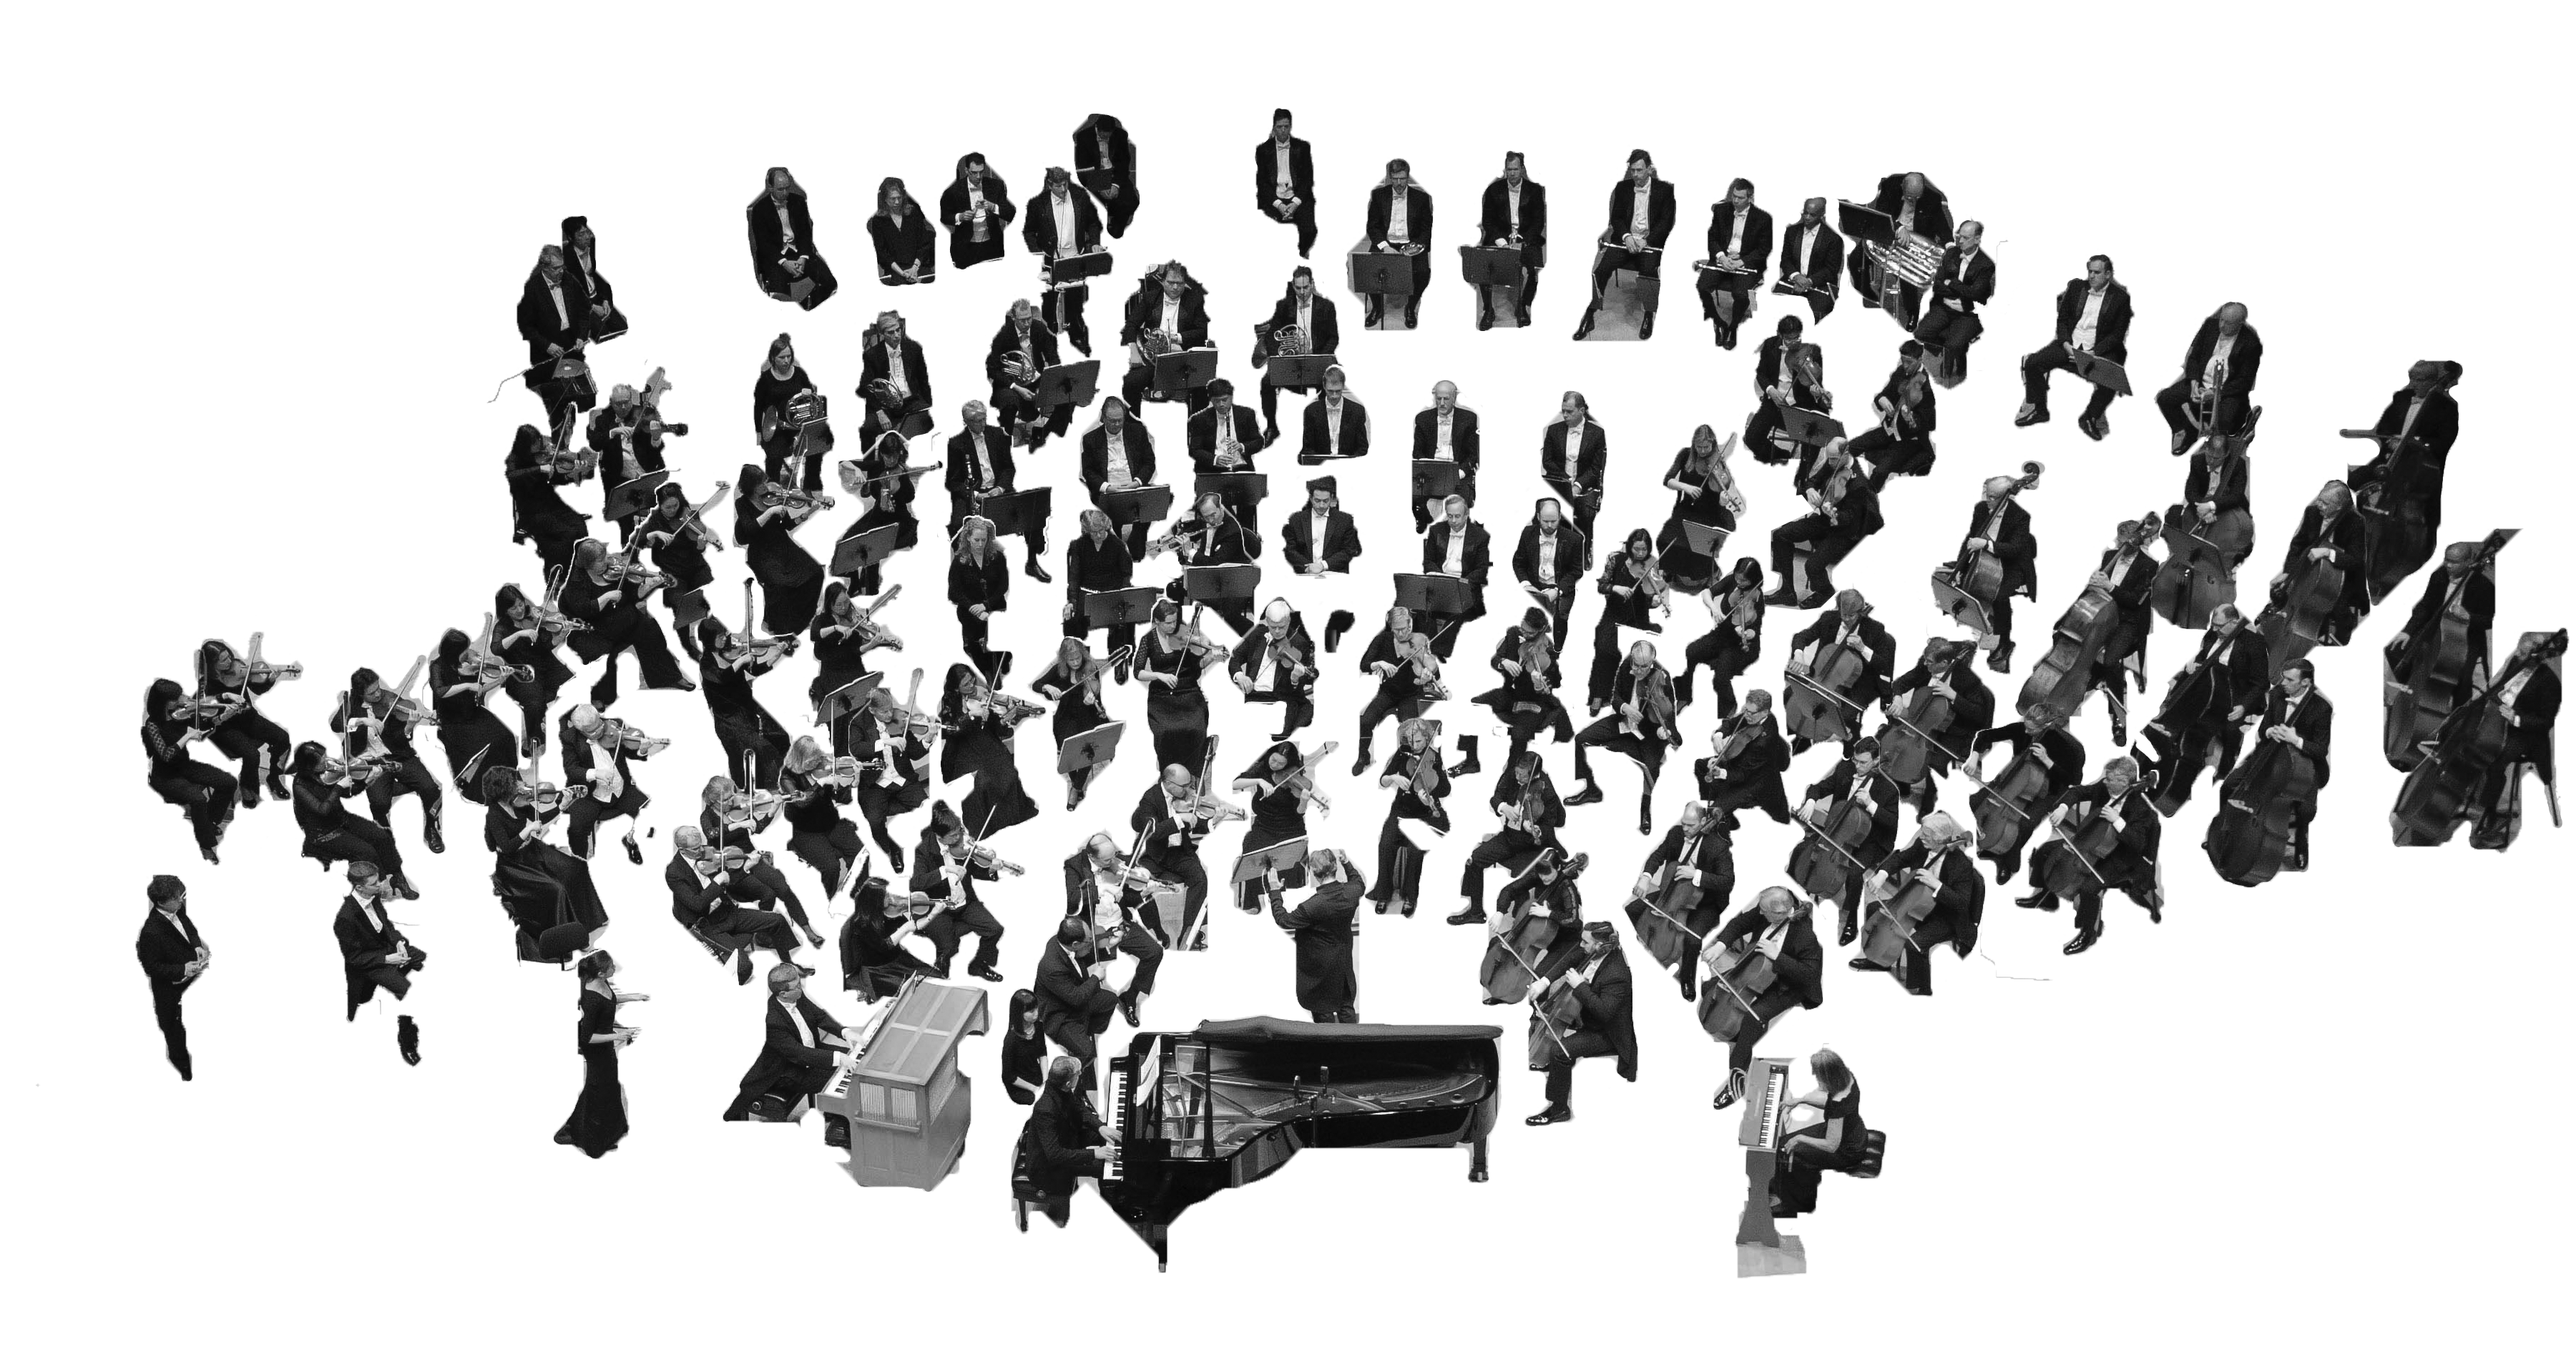
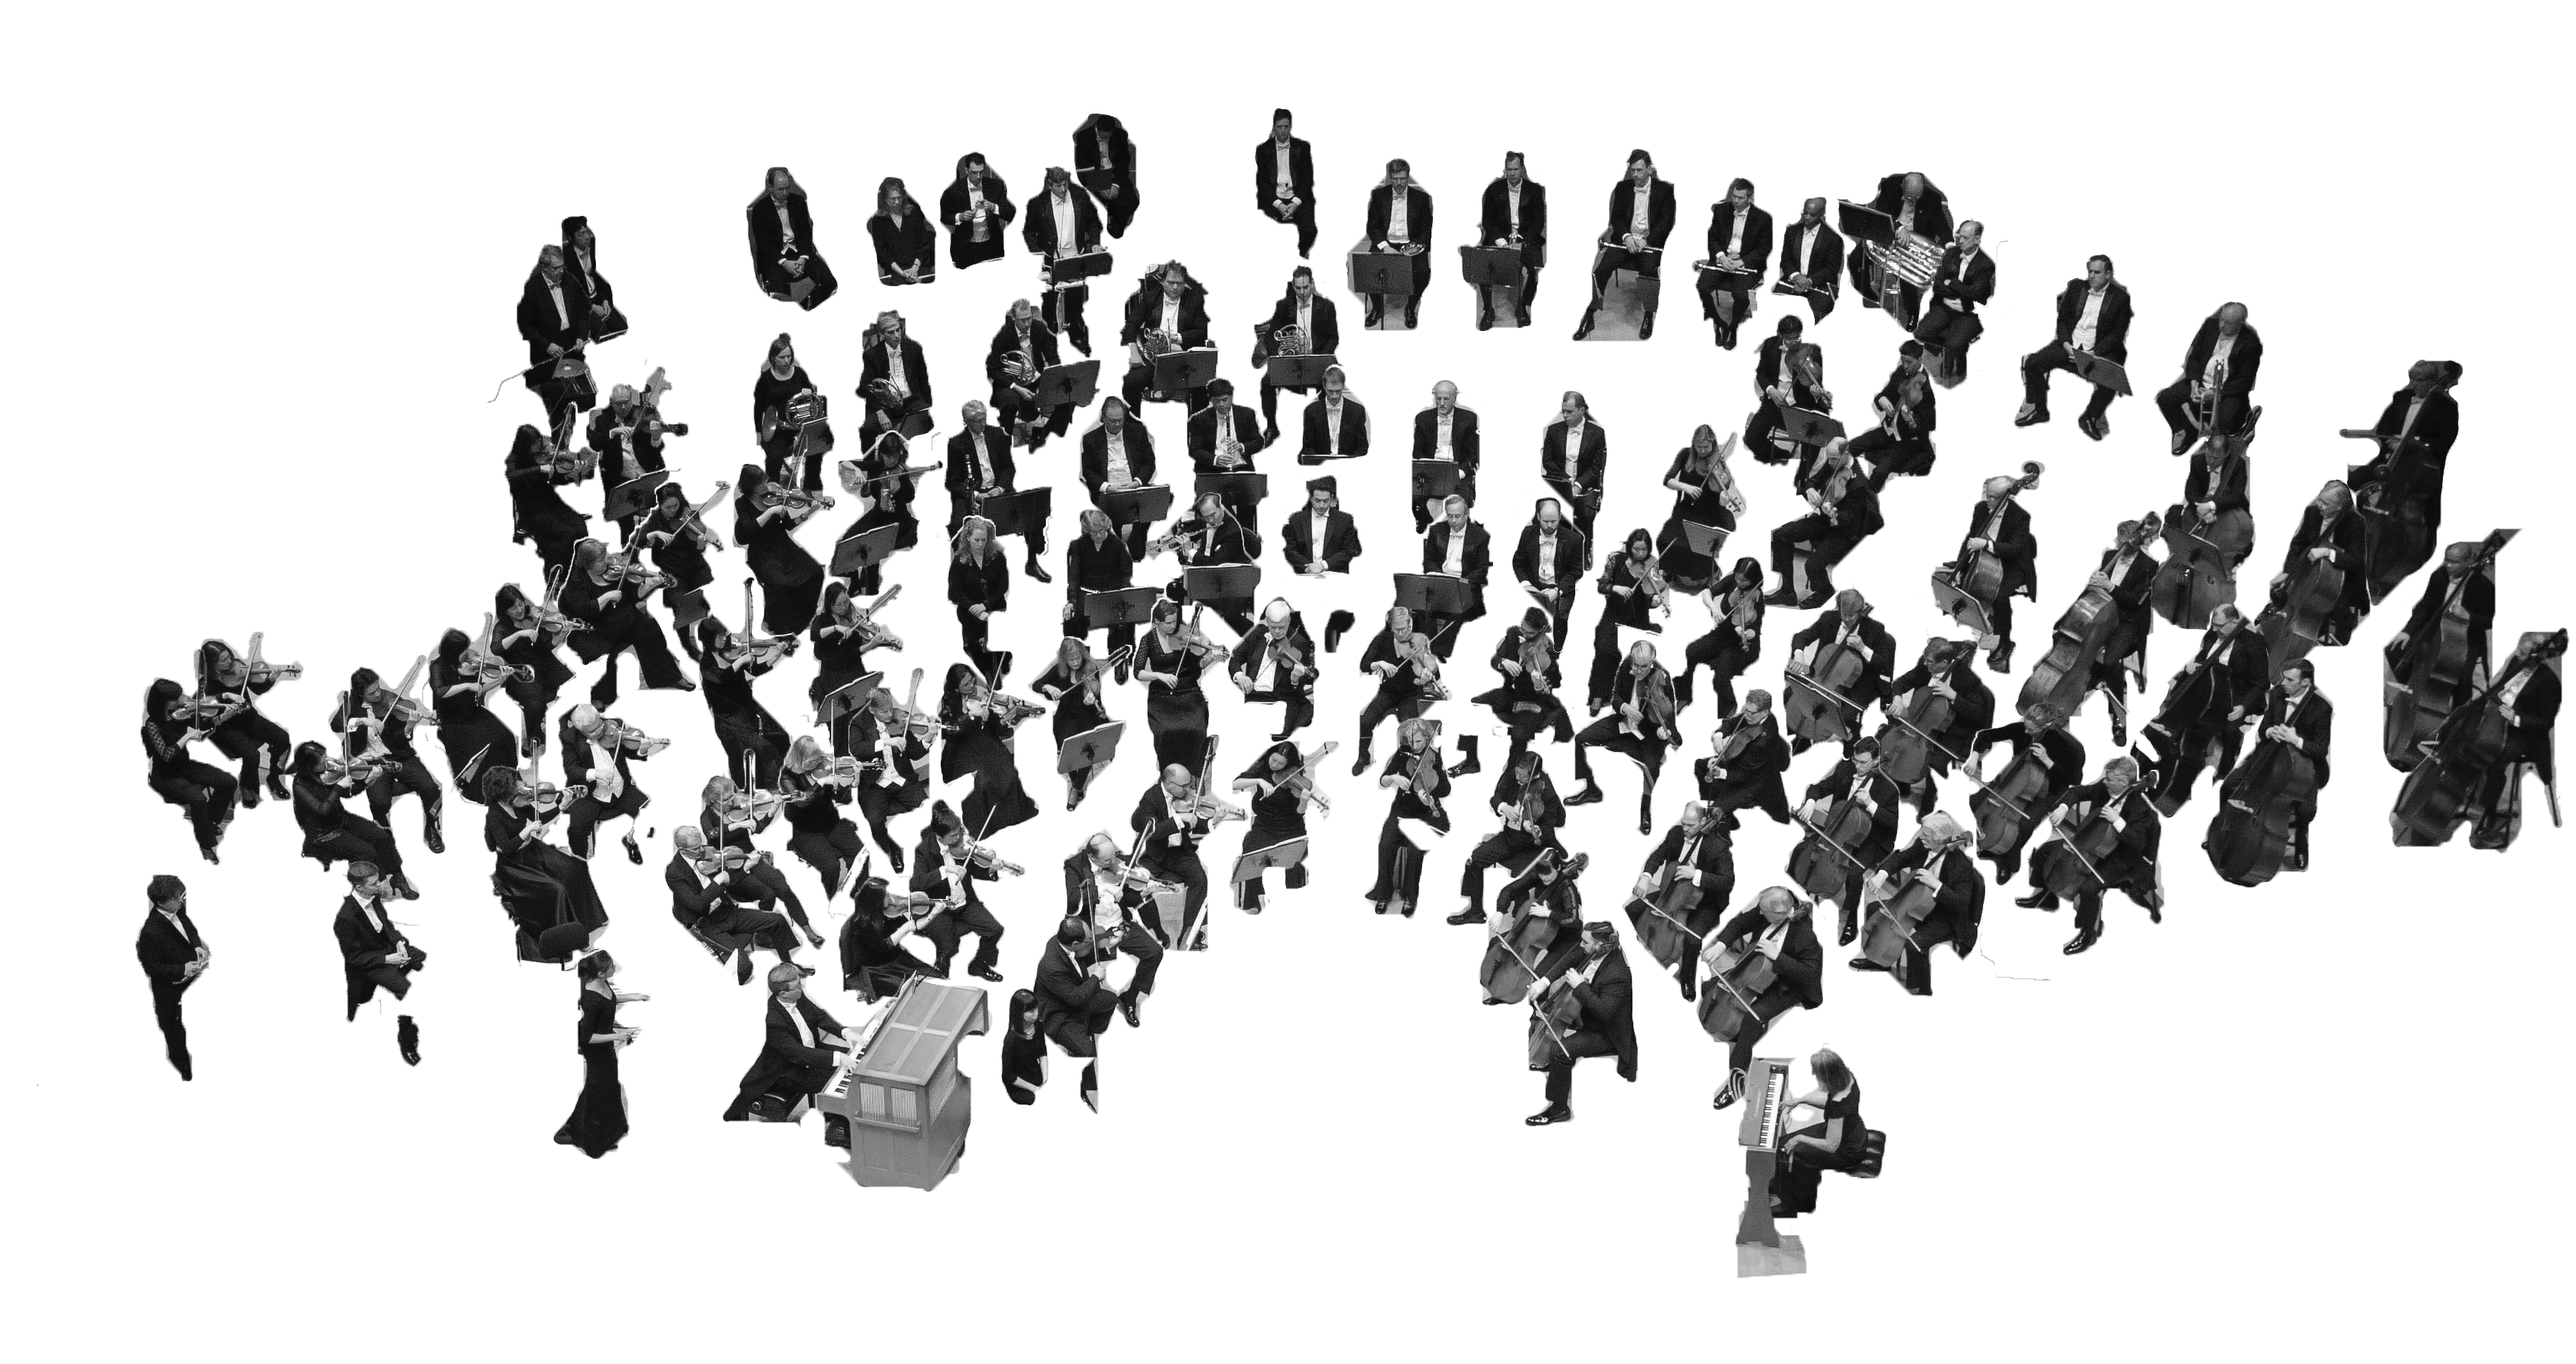
Using a different approach ditching maphilight

Changed region(s): [[0.3732, 0.6184, 0.5909, 0.9277]]

diff --git a/webapp/templates/performers.html b/webapp/templates/performers.html
@@ -1,6 +1,6 @@
 <!doctype html>
 <!--Code Belongs to CodyHouse -->
-<html lang="en" class="no-js">
+<html lang="en">
     <head>
         <meta charset="UTF-8">
         <meta name="viewport" content="width=device-width, initial-scale=1">
@@ -10,13 +10,11 @@
         <link rel="stylesheet" href="{{ url_for('static', filename='performers_style.css') }}" /> <!-- Resource style -->
         <link rel="shortcut icon" href="https://res.cloudinary.com/nyphil/image/upload/v1463431638/images/shared/icons-logos/favicon.ico"/>
         <script>var api_port = {{ api_port }};</script>  
-        <script type="text/javascript" src="https://code.jquery.com/jquery-3.3.1.min.js"></script>
+        <script src="{{ url_for('static', filename='jquery-2.1.1.js') }}" type="text/javascript" defer></script> 
+        <script src="{{ url_for('static', filename='performers_main.js') }}" defer></script> <!-- Resource jQuery -->
         <script src="{{ url_for('static', filename='modernizr.js') }}" defer></script> <!-- Modernizr -->
-        <script src="{{ url_for('static', filename='./maphilight/jquery.maphilight.js') }}" type="text/javascript" defer></script> 
-        <script type="text/javascript">$(function() {
-        $('.map').maphilight();
-        });</script>
-
+        <script src="{{ url_for('static', filename='exit_button.js') }}" defer></script>  
+       
         <title>NY Phil: Perfinder </title>
     </head>
 
@@ -25,25 +23,28 @@
     <div class="cd-background-wrapper">
         <figure class="cd-floating-background">
             <img src="{{ url_for('static', filename='images/concert_hall.png') }}" alt="concert_hall">
-            <img src="{{ url_for('static', filename='images/performers.png') }}" alt="performers" class="map" usemap="#Map"> 
+            <img src="{{ url_for('static', filename='images/performers.png') }}" alt="performers"> 
             <img src="{{ url_for('static', filename='images/composers.png') }}" alt="composers">
+            <a href="https://google.com">
+                <img src="{{ url_for('static', filename='images/soloist.png') }}" alt="soloist">
+            </a>
+            <a href="https://www.youtube.com/">
+                <img src="{{ url_for('static', filename='images/conductor.png') }}" alt="conductor">
+            </a>
        </figure>
-
-       <map name="Map">
-       <area alt="soloist" shape="poly" href="https://www.google.com/" coords="1461,1497,1489,1488,1502,1507,1499,1539,1512,1571,1537,1580,1534,1510,1544,1491,1582,1488,1572,1466,1626,1453,1664,1434,1823,1434,1951,1434,2053,1437,2094,1440,2081,1513,2081,1548,2071,1641,2062,1539,2074,1596,2045,1609,1979,1609,1902,1609,1835,1609,1794,1612,1746,1647,1778,1641,1727,1657,1673,1676,1641,1708,1632,1755,1626,1781,1543,1679,1486,1679,1482,1701,1444,1679,1441,1714,1422,1654,1422,1596">
-       </map>
 
        <div class = "text-block">
            <h1> NY Phil: Perfinder </h1>
         </div>
     </div>
+    
+    <div class="exit_button" id="exit_buttonJS">
+        <a href="https://www.youtube.com/">
+            <img src ="{{ url_for('static', filename='images/exit.png') }}" alt ="exit" class = "exit_sign">
+        </a>
+    </div>
 
     
-    <img src ="{{ url_for('static', filename='images/exit.png') }}" alt ="exit" class = "exit_sign">
-
-    <script src="{{ url_for('static', filename='jquery-2.1.1.js') }}" defer></script> 
-    <script src="{{ url_for('static', filename='performers_main.js') }}" defer></script> <!-- Resource jQuery -->
-
     </body>
 
 </html>

diff --git a/webapp/static/performers_style.css b/webapp/static/performers_style.css
@@ -73,21 +73,38 @@ Main Components
   transform: translateZ(290px);
 }
 .cd-floating-background img:nth-child(3) {
+  -webkit-transform: translateZ(300px);
+  -ms-transform: translateZ(300px);
+  transform: translateZ(300px);
+}
+.cd-floating-background a img:nth-child(4) {
+  -webkit-transform: translateZ(400x);
+  -ms-transform: translateZ(400px);
+  transform: translateZ(400px);
+}
+.cd-floating-background a img:nth-child(5) {
   -webkit-transform: translateZ(400px);
   -ms-transform: translateZ(400px);
   transform: translateZ(400px);
 }
+
 .no-preserve-3d .cd-floating-background {
   /* we target browsers that don't support preserve-3d and show just a standard image - no effect visible */
   position: relative;
 }
+
+/************** 
+ * Other
+ *************/
+
 .exit_sign {
-    position: absolute;
+    position: fixed;
     height: 45px;
     width: 45px;
     top: 90%;
     left: 2.5%;
 }
+
 .text-block {
     position: relative;
     font-family: "Comic Sans MS", cursive, sans-serif;
@@ -95,4 +112,7 @@ Main Components
     top: 40%;
     font-size: 10vw;
 }
+
+}
+
 
